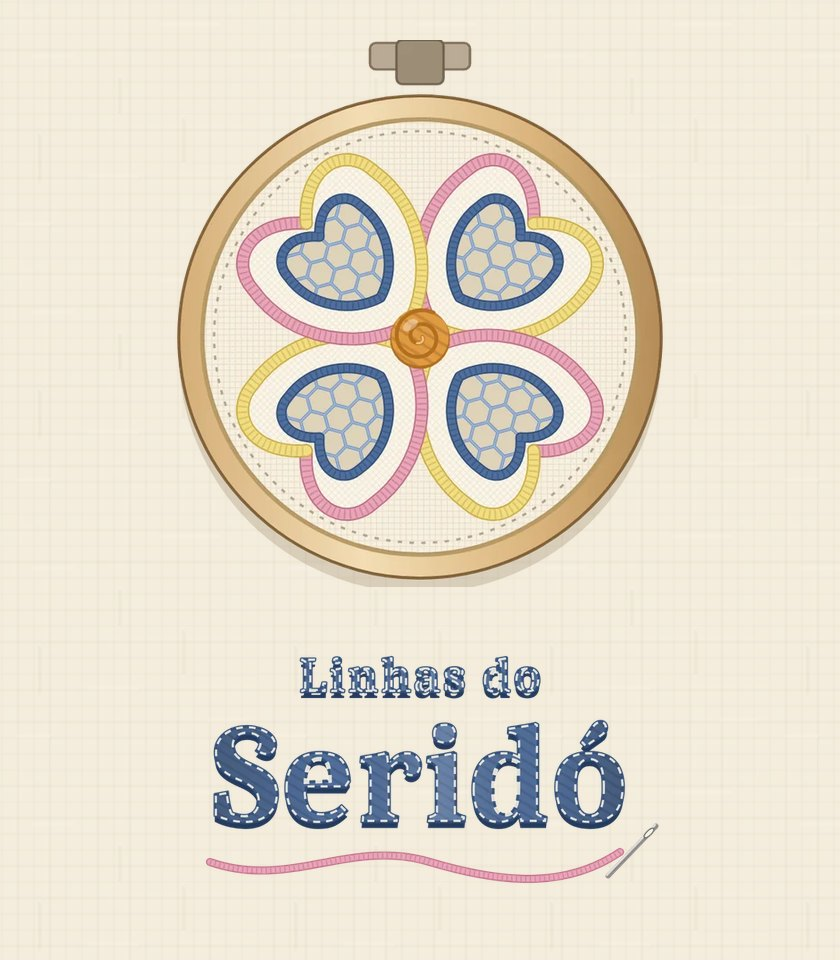
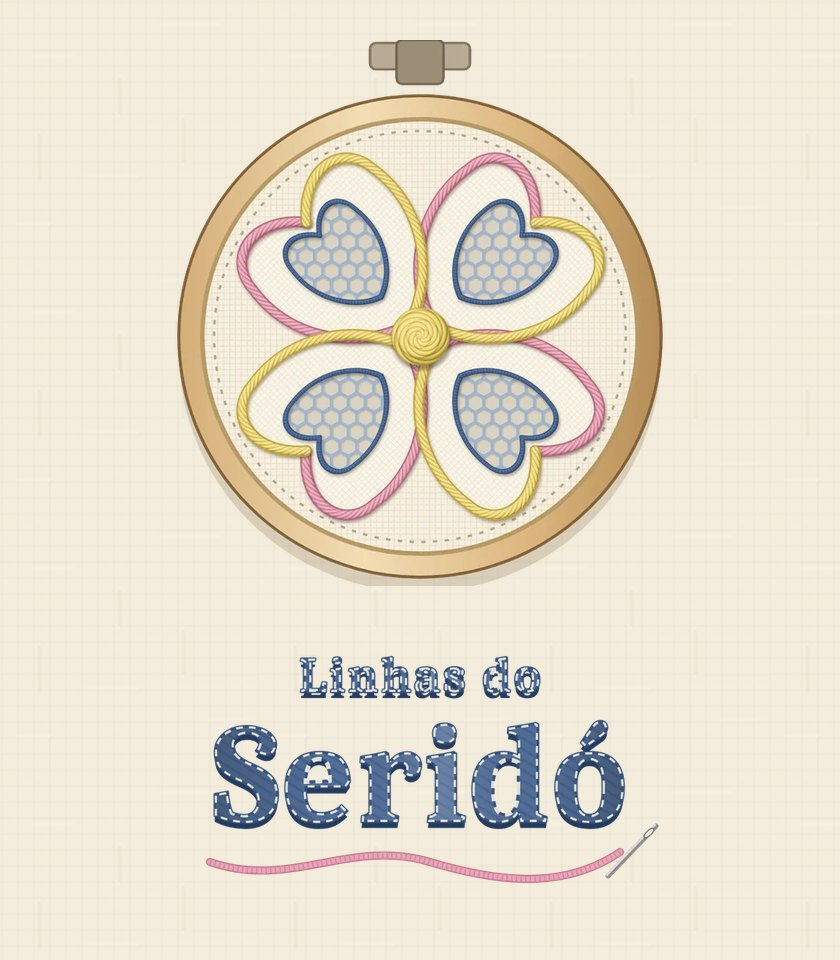
Linhas do Seridó page: use the game's wool-thread art and review the content (#10)
- Hero hoop: empty hoop plus the game's wool Richelieu flower instead of the old flat one
- Replace the old vignette and floral corner pieces with the wool drawings
- New section on Pontos de Cultura, Coleção and the three support resources
- Add the guided first game, the twelve stitches of the Caicó IP, touch-only
  controls, settings switches and the music credit
- Regenerate the catalog poster with the new hoop

Changed region(s): [[0.2786, 0.1562, 0.7429, 0.625]]

diff --git a/src/components/games/linhas/LinhasDoSerido.js b/src/components/games/linhas/LinhasDoSerido.js
@@ -77,6 +77,24 @@ const stitches = [
   },
 ];
 
+const resources = [
+  {
+    img: "recurso-desfazer",
+    name: "Desfazer",
+    text: "Volta a última jogada, para experimentar sem medo de errar.",
+  },
+  {
+    img: "recurso-dica",
+    name: "Dica",
+    text: "Mostra um movimento possível, do pino de origem ao de destino.",
+  },
+  {
+    img: "recurso-pino-extra",
+    name: "Pino extra",
+    text: "Libera um pino vazio a mais. Vale uma vez por fase.",
+  },
+];
+
 const process = [
   {
     name: "Riscado",
@@ -162,9 +180,9 @@ const LinhasDoSerido = () => {
           <div className="ls-hero-art">
             <img
               src={`${A}/bastidor.webp`}
-              alt="Bastidor com um bordado de quatro pétalas em forma de coração, em fios rosa, amarelo e azul"
+              alt="Bastidor com uma flor Richelieu bordada em fios rosa, amarelo e azul, com o miolo em rococó"
               width="560"
-              height="613"
+              height="612"
               fetchpriority="high"
             />
           </div>
@@ -188,6 +206,7 @@ const LinhasDoSerido = () => {
           </ol>
           <ul className="ls-rules">
             <li>Cada pino comporta até quatro anéis.</li>
+            <li>Na primeira partida, uma fase guiada ensina a jogar e só aceita a jogada certa.</li>
             <li>Sem vidas nem energia: se travar, desfaça, peça uma dica, libere um pino extra ou reinicie a fase.</li>
           </ul>
         </div>
@@ -278,7 +297,9 @@ const LinhasDoSerido = () => {
           </h2>
           <p className="ls-lead">
             Cada bloco da trilha ensina um ponto do Bordado Caicó, com três
-            fases. Ao concluir as três, o jogador ganha o selo do ponto.
+            fases. Ao concluir as três, o jogador ganha o selo do ponto. A
+            Indicação de Procedência Caicó reconhece doze pontos: o protótipo
+            traz quatro, e os outros oito ficam para versões futuras.
           </p>
           <ul className="ls-stitches">
             {stitches.map((s) => (
@@ -303,8 +324,35 @@ const LinhasDoSerido = () => {
         </div>
       </section>
 
+      {/* ---------- Pontos de Cultura, Coleção e recursos ---------- */}
+      <section className="ls-section ls-section-shade" aria-labelledby="ls-cultura">
+        <div className="ls-wrap">
+          <h2 id="ls-cultura" className="ls-heading">
+            Pontos de Cultura e Coleção
+          </h2>
+          <p className="ls-lead">
+            Cada fase concluída rende Pontos de Cultura. Eles desbloqueiam
+            curiosidades sobre o bordado na Coleção, onde também ficam os
+            selos de cada ponto, e podem ser trocados na Loja por recursos de
+            apoio.
+          </p>
+          <ul className="ls-resources">
+            {resources.map((r) => (
+              <li key={r.img} className="ls-card ls-resource">
+                <Img name={r.img} w="288" h="312" className="ls-resource-img" />
+                <h3>{r.name}</h3>
+                <p>{r.text}</p>
+              </li>
+            ))}
+          </ul>
+          <p className="ls-fine">
+            Os recursos que sobram ficam guardados para as próximas fases.
+          </p>
+        </div>
+      </section>
+
       {/* ---------- Tradição ---------- */}
-      <section className="ls-section ls-section-shade" aria-labelledby="ls-tradicao">
+      <section className="ls-section" aria-labelledby="ls-tradicao">
         <div className="ls-wrap ls-tradition">
           <div>
             <h2 id="ls-tradicao" className="ls-heading">
@@ -335,12 +383,19 @@ const LinhasDoSerido = () => {
               (bordadodecaico.com.br) e ainda serão revisadas com as bordadeiras.
             </p>
           </div>
-          <Img name="vinheta-agulha" w="320" h="320" className="ls-vignette" alt="Agulha com linha sobre um bastidor bordado" />
+          <div className="ls-medal">
+            <Img
+              name="desenho-03"
+              w="320"
+              h="320"
+              alt="Flor de cinco pétalas bordada em fios rosa e amarelo, com haste e folhas azuis"
+            />
+          </div>
         </div>
       </section>
 
       {/* ---------- Acessibilidade ---------- */}
-      <section className="ls-section" aria-labelledby="ls-acess">
+      <section className="ls-section ls-section-shade" aria-labelledby="ls-acess">
         <div className="ls-wrap">
           <h2 id="ls-acess" className="ls-heading">
             Para jogar sem depender da cor
@@ -359,6 +414,11 @@ const LinhasDoSerido = () => {
               </li>
             ))}
           </ul>
+          <ul className="ls-access-list">
+            <li>Controles só por toque, com um dedo, e alto contraste entre os fios e o fundo.</li>
+            <li>Em Ajustes, chaves separadas para música e efeitos sonoros (a dos efeitos também controla a vibração) e para as marcas nos anéis.</li>
+            <li>Sem punição por erro: dá para desfazer, pedir dica ou recomeçar a fase.</li>
+          </ul>
           <div className="ls-card ls-audience">
             <p>
               Pensado para crianças e jovens de 8 a 16 anos, estudantes,
@@ -372,8 +432,8 @@ const LinhasDoSerido = () => {
 
       {/* ---------- Fechamento ---------- */}
       <section className="ls-closing" aria-labelledby="ls-closing">
-        <img src={`${A}/cantoneira.webp`} alt="" className="ls-corner ls-corner-tl" width="300" height="300" loading="lazy" />
-        <img src={`${A}/cantoneira.webp`} alt="" className="ls-corner ls-corner-br" width="300" height="300" loading="lazy" />
+        <img src={`${A}/desenho-05.webp`} alt="" className="ls-corner ls-corner-tl" width="320" height="320" loading="lazy" />
+        <img src={`${A}/desenho-03.webp`} alt="" className="ls-corner ls-corner-br" width="320" height="320" loading="lazy" />
         <div className="ls-wrap ls-closing-inner">
           <h2 id="ls-closing" className="ls-heading">
             Em breve no Android
@@ -394,6 +454,10 @@ const LinhasDoSerido = () => {
             Nosso agradecimento às bordadeiras do Seridó, que transmitem esse
             ofício de geração em geração e mantêm viva a tradição do Bordado
             Caicó.
+          </p>
+          <p className="ls-fine">
+            A música (“Baião lo-fi”) e os efeitos sonoros são originais do
+            projeto.
           </p>
         </div>
       </section>

diff --git a/src/components/games/linhas/LinhasDoSerido.css b/src/components/games/linhas/LinhasDoSerido.css
@@ -395,6 +395,29 @@
   height: auto;
 }
 
+/* ---- recursos de apoio ---- */
+.ls-resources {
+  list-style: none;
+  padding: 0;
+  margin: 0 0 14px;
+  display: grid;
+  grid-template-columns: repeat(3, minmax(0, 1fr));
+  gap: 22px;
+}
+.ls-resource {
+  text-align: center;
+}
+.ls-resource-img {
+  width: 120px;
+  height: auto;
+  margin: 0 auto 8px;
+  display: block;
+  filter: drop-shadow(0 4px 3px rgba(91, 74, 59, 0.25));
+}
+.ls-resource p {
+  margin: 0;
+}
+
 /* ---- tradição ---- */
 .ls-tradition {
   display: grid;
@@ -440,10 +463,28 @@
   border-radius: 14px;
   font-size: 1.05rem;
 }
-.ls-vignette {
-  width: 100%;
+.ls-medal {
+  position: relative;
+  aspect-ratio: 1;
+  border-radius: 50%;
+  display: grid;
+  place-items: center;
+  background: var(--ls-paper);
+  border: 3px solid var(--ls-gold);
+  box-shadow: 0 8px 14px rgba(91, 74, 59, 0.2), inset 0 0 0 10px #f1e6cf;
+}
+.ls-medal::before {
+  content: "";
+  position: absolute;
+  inset: 16px;
+  border: 2px dashed var(--ls-dots);
+  border-radius: 50%;
+  opacity: 0.7;
+}
+.ls-medal img {
+  width: 70%;
   height: auto;
-  filter: drop-shadow(0 8px 6px rgba(91, 74, 59, 0.2));
+  position: relative;
 }
 
 /* ---- acessibilidade ---- */
@@ -470,6 +511,26 @@
   max-width: 150px;
   filter: drop-shadow(0 4px 3px rgba(91, 74, 59, 0.25));
 }
+.ls-access-list {
+  list-style: none;
+  padding: 0;
+  margin: 0 0 24px;
+  display: grid;
+  gap: 8px;
+  max-width: 66ch;
+}
+.ls-access-list li {
+  padding-left: 30px;
+  position: relative;
+}
+.ls-access-list li::before {
+  content: "";
+  position: absolute;
+  left: 4px;
+  top: 0.62em;
+  width: 9px;
+  border-top: 3px dashed var(--ls-blue);
+}
 .ls-audience {
   max-width: 720px;
 }
@@ -481,7 +542,6 @@
 .ls-closing {
   padding: 88px 0 96px;
   text-align: center;
-  background-color: var(--ls-linen-shade);
 }
 .ls-closing-inner {
   display: flex;
@@ -512,7 +572,6 @@
 .ls-corner-br {
   right: 14px;
   bottom: 14px;
-  transform: rotate(180deg);
 }
 
 /* ---- telas pequenas ---- */
@@ -542,8 +601,11 @@
     margin: 0 auto;
     width: 100%;
   }
-  .ls-vignette {
-    max-width: 200px;
+  .ls-medal {
+    max-width: 220px;
+  }
+  .ls-resources {
+    grid-template-columns: minmax(0, 1fr);
   }
 }
 @media (max-width: 560px) {

diff --git a/docs/design-system.md b/docs/design-system.md
@@ -82,7 +82,7 @@ game's card/page. Brand tokens (orange, ink, paper) stay constant around it.
 
 The Brilhante Folclore page (`src/components/games/brilhante/`) does not follow the site's light/dark theme: it is the game's world, built only from the game's own sprites (`public/assets/brilhante/`), its fonts (Darumadrop One for display, Nunito for text) and its UI rules (thick `#42210B` outline, cream paper, wooden signs). Its header uses `tone="wood"`.
 
-The Linhas do Seridó page (`src/components/games/linhas/`) is also its own world, in light linen: tecido `#F4EDDD`, tinta `#5B4A3B`, borda dourada `#B89A66`, pontilhado `#A89A82`, fios azul `#4F6E9C`/`#324E78`, rosa `#E8A5B8`, amarelo `#F1DC84`, ouro `#E19A41`. Fonts: Amatic SC (titles), Alegreya SC (labels, buttons), Alegreya (text). Images come from the game's own art pack (`public/assets/linhas-do-serido/`); the layer order of the embroidery demo was checked pixel by pixel against the finished drawing. Its header uses `tone="linen"`, which keeps the header dark-on-light even when the site is in dark mode.
+The Linhas do Seridó page (`src/components/games/linhas/`) is also its own world, in light linen: tecido `#F4EDDD`, tinta `#5B4A3B`, borda dourada `#B89A66`, pontilhado `#A89A82`, fios azul `#4F6E9C`/`#324E78`, rosa `#E8A5B8`, amarelo `#F1DC84`, ouro `#E19A41`. Fonts: Amatic SC (titles), Alegreya SC (labels, buttons), Alegreya (text). Images come from the game's own art, always the final wool-thread versions from its `Art/Derived` folder (rings, spools, drawings, seals, samples, tutorial steps). The hero hoop is the game's empty hoop plus its wool Richelieu flower (d06), placed with the same transform as the original art pack's hoop. The old flat pieces (hoop with the flat flower, the three vignettes and the floral corner) were removed. The logo is the original T03, which the game also still uses. The layer order of the embroidery demo was checked pixel by pixel against the finished drawing. Its header uses `tone="linen"`, which keeps the header dark-on-light even when the site is in dark mode.
 
 Confirm exact hex values for Banzé with the artist before shipping; sample them from the art.
 
